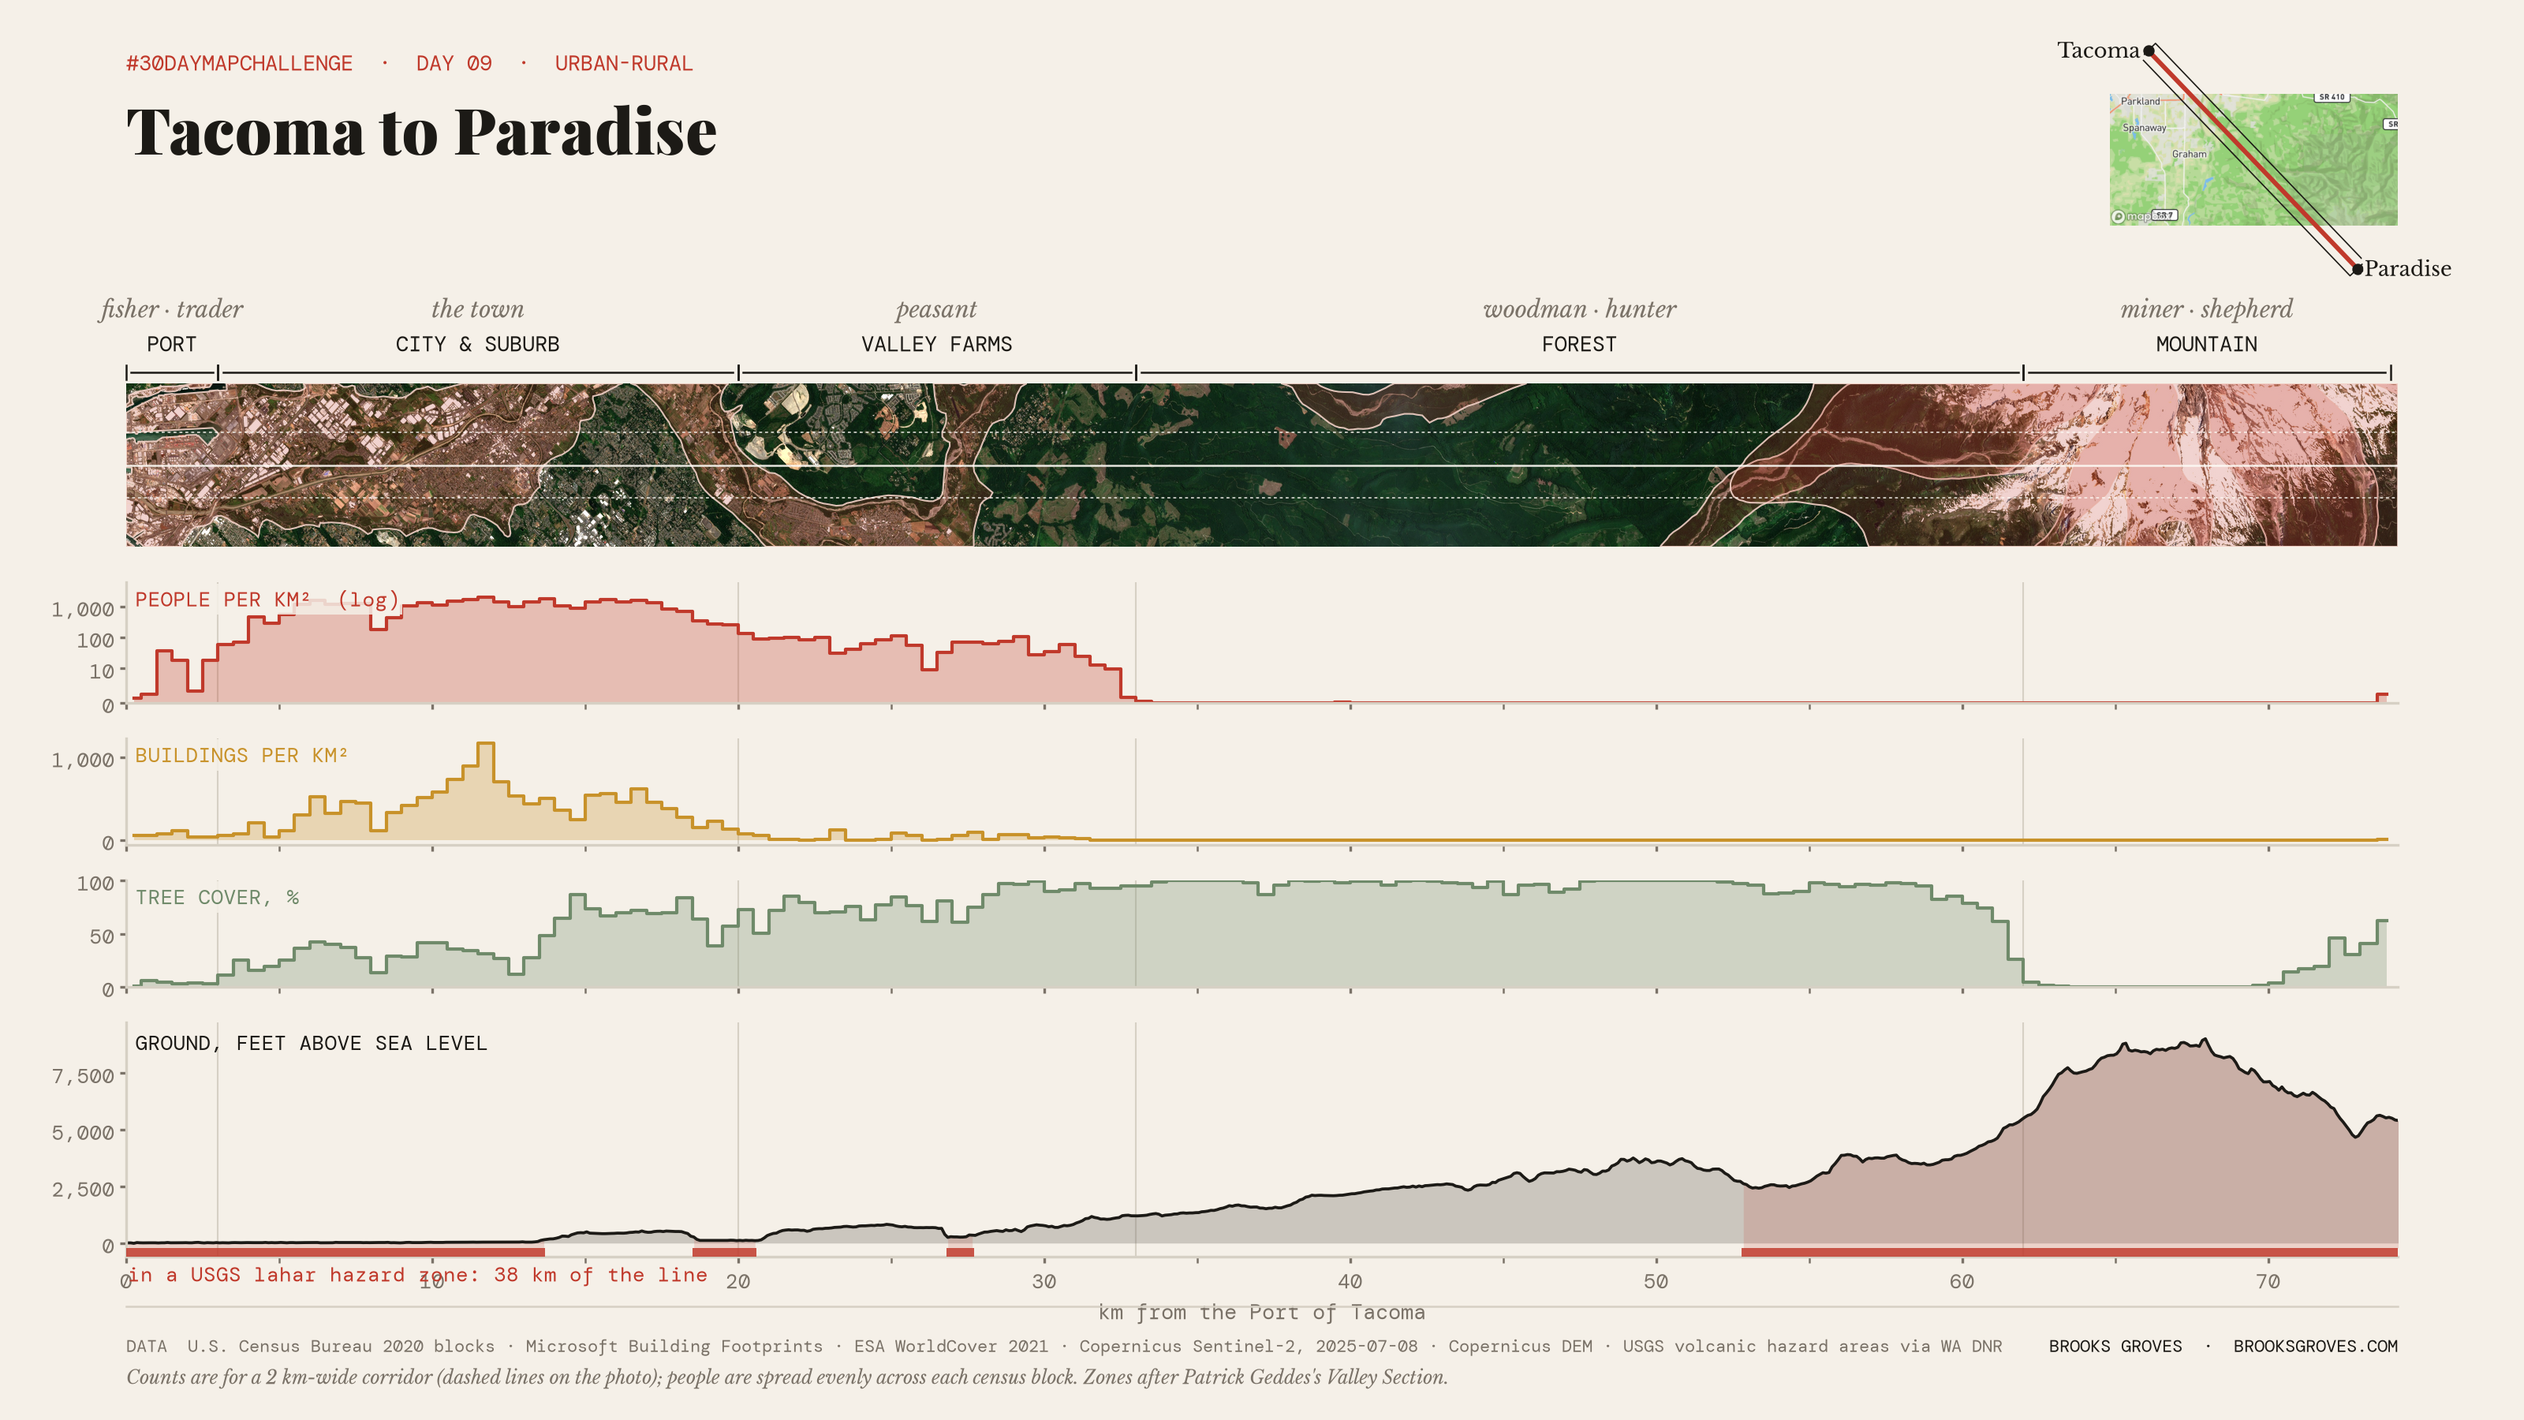
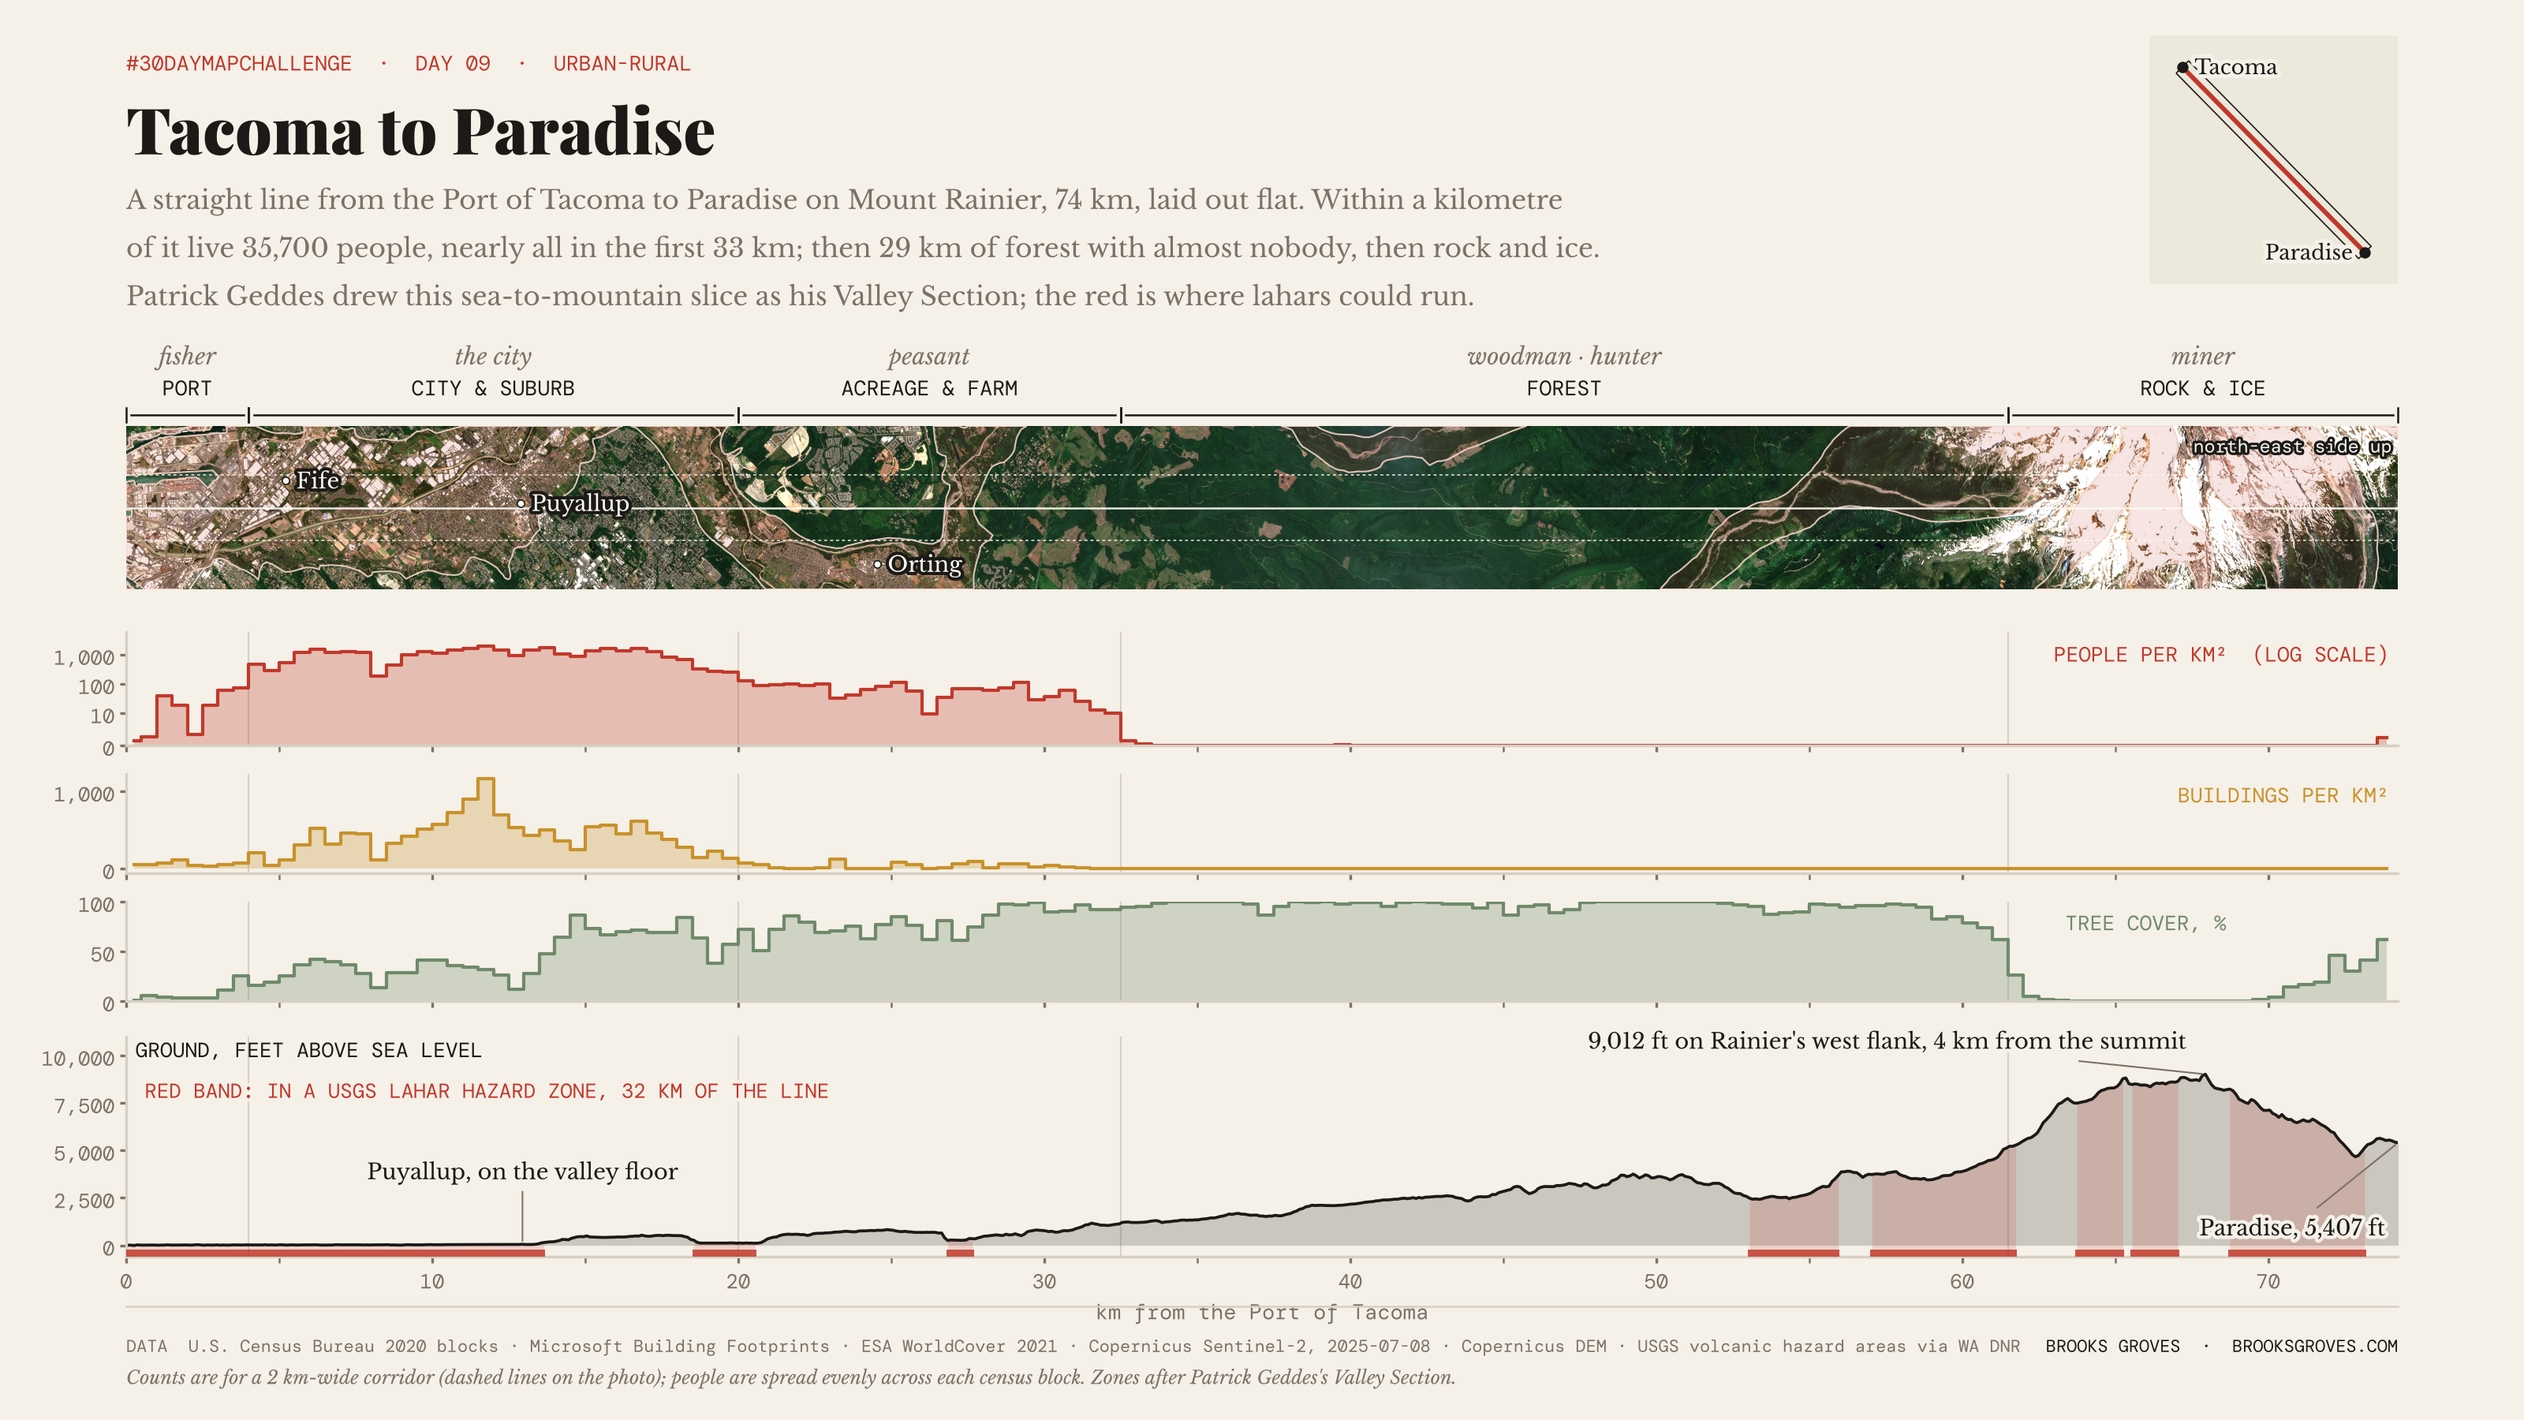
Day 9: Geddes zones from the data, lahar areas on the ribbon, labels and locator
Claude-Session: https://claude.ai/code/session_01PLpsre7ERQswvi63o1YoGH

diff --git a/2026/day-09-urban-rural/make.py b/2026/day-09-urban-rural/make.py
@@ -339,13 +339,13 @@ def draw():
     Lk = meta["line_km"]
     ft = E["elev_m"] * 3.28084
 
-    fig = dmc.figure("wide", map_box=(0.05, 0.615, 0.90, 0.115))[0]
+    fig = dmc.figure("wide", map_box=(0.05, 0.585, 0.90, 0.115))[0]
     rax = fig.axes[0]
     X0, X1 = 0.05, 0.95
 
     # ribbon
     img = np.asarray(Image.open(OUT / "ribbon.jpg")).astype("float32") / 255
-    img = np.clip((img - 0.02) / 0.9, 0, 1) ** 0.95
+    img = np.clip((img - 0.02) / 0.82, 0, 1) ** 0.85
     hk = meta["ribbon_half_m"] / 1000
     rax.imshow(img, extent=(0, Lk, -hk, hk), aspect="auto", interpolation="lanczos", zorder=0)
     rax.set_xlim(0, Lk)
@@ -360,7 +360,7 @@ def draw():
         polys = [g["coordinates"]] if g["type"] == "Polygon" else g["coordinates"]
         for p in polys:
             ring = np.asarray(p[0]) / 1000
-            rax.add_patch(MPoly(ring, closed=True, fc=dmc.LAVA, ec="none", alpha=0.22, zorder=1))
+            rax.add_patch(MPoly(ring, closed=True, fc=dmc.LAVA, ec="none", alpha=0.13, zorder=1))
             rax.add_patch(MPoly(ring, closed=True, fc="none", ec="#f3d2c8", lw=0.5, alpha=0.9, zorder=1))
     for y in (-HALF / 1000, HALF / 1000):
         rax.axhline(y, color=dmc.WHITE, lw=0.45, ls=(0, (2, 2)), alpha=0.75, zorder=2)
@@ -369,15 +369,15 @@ def draw():
     # Geddes zones above the ribbon
     for (k0, k1, name, trade) in ZONES:
         fig_x = lambda k: X0 + (X1 - X0) * k / Lk   # noqa: E731
-        fig.add_artist(plt.Line2D([fig_x(k0) + 0.002, fig_x(k1) - 0.002], [0.738] * 2, color=dmc.INK, lw=0.6,
+        fig.add_artist(plt.Line2D([fig_x(k0) + 0.002, fig_x(k1) - 0.002], [0.708] * 2, color=dmc.INK, lw=0.6,
                                   transform=fig.transFigure))
         for k in (k0, k1):
-            fig.add_artist(plt.Line2D([fig_x(k)] * 2, [0.733, 0.743], color=dmc.INK, lw=0.6, transform=fig.transFigure))
+            fig.add_artist(plt.Line2D([fig_x(k)] * 2, [0.703, 0.713], color=dmc.INK, lw=0.6, transform=fig.transFigure))
         cx = fig_x((k0 + k1) / 2)
-        fig.text(cx, 0.748, name.upper(), family=dmc.MONO, size=6.4, color=dmc.INK, ha="center", va="bottom")
-        fig.text(cx, 0.772, trade, family=dmc.TEXT, style="italic", size=7, color=dmc.STONE, ha="center", va="bottom")
+        fig.text(cx, 0.717, name.upper(), family=dmc.MONO, size=6.4, color=dmc.INK, ha="center", va="bottom")
+        fig.text(cx, 0.739, trade, family=dmc.TEXT, style="italic", size=7, color=dmc.STONE, ha="center", va="bottom")
 
-    def panel(y0, h, label, colour, y, log=False, fmt=lambda v, _: f"{v:,.0f}", ylim=None):
+    def panel(y0, h, label, colour, y, log=False, fmt=lambda v, _: f"{v:,.0f}", ylim=None, lx=0.996, ha="right"):
         a = fig.add_axes((X0, y0, X1 - X0, h))
         a.set_facecolor("none")
         a.fill_between(km, y, color=colour, alpha=0.28, lw=0, step="mid")
@@ -389,8 +389,7 @@ def draw():
             a.set_ylim(*ylim)
         style(a, fmt)
         a.tick_params(labelbottom=False)
-        a.text(0.004, 0.97, label, transform=a.transAxes, family=dmc.MONO, size=6.3, color=colour, va="top",
-               bbox=dict(fc=dmc.PARCHMENT, ec="none", pad=0.6, alpha=0.85))
+        a.text(lx, 0.92, label, transform=a.transAxes, family=dmc.MONO, size=6.3, color=colour, va="top", ha=ha)
         return a
 
     def style(a, fmt):
@@ -407,18 +406,18 @@ def draw():
         for k0, k1, *_ in ZONES[1:]:
             a.axvline(k0, color=dmc.MIST, lw=0.5, zorder=0)
 
-    panel(0.505, 0.085, "PEOPLE PER KM²  (log)", dmc.LAVA, P["people_per_km2"], log=True, ylim=(0, 6000))
-    panel(0.405, 0.075, "BUILDINGS PER KM²", dmc.GOLD, P["buildings_per_km2"])
-    panel(0.305, 0.075, "TREE COVER, %", dmc.SAGE, P["tree_pct"], ylim=(0, 100))
+    panel(0.475, 0.08, "PEOPLE PER KM²  (LOG SCALE)", dmc.LAVA, P["people_per_km2"], log=True, ylim=(0, 6000))
+    panel(0.385, 0.07, "BUILDINGS PER KM²", dmc.GOLD, P["buildings_per_km2"])
+    panel(0.295, 0.07, "TREE COVER, %", dmc.SAGE, P["tree_pct"], ylim=(0, 100), lx=66 / Lk, ha="center")
 
-    ea = fig.add_axes((X0, 0.115, X1 - X0, 0.165))
+    ea = fig.add_axes((X0, 0.115, X1 - X0, 0.155))
     ea.set_facecolor("none")
     ea.fill_between(ekm, ft, color=dmc.ASH, alpha=0.30, lw=0)
     ea.plot(ekm, ft, color=dmc.INK, lw=0.9)
     ea.set_xlim(0, Lk)
-    ea.set_ylim(-600, max(ft) * 1.08)
+    ea.set_ylim(-600, max(ft) * 1.22)
     style(ea, lambda v, _: f"{v:,.0f}")
-    ea.text(0.004, 0.97, "GROUND, FEET ABOVE SEA LEVEL", transform=ea.transAxes, family=dmc.MONO, size=6.3,
+    ea.text(0.004, 1.0, "GROUND, FEET ABOVE SEA LEVEL", transform=ea.transAxes, family=dmc.MONO, size=6.3,
             color=dmc.INK, va="top")
     ea.set_xlabel("km from the Port of Tacoma", family=dmc.MONO, fontsize=6.5, color=dmc.STONE, labelpad=1)
     # lahar band: under the profile, where the line is inside a hazard zone
@@ -433,18 +432,27 @@ def draw():
             ea.add_patch(Rectangle((k0, -600), k1 - k0, 380, fc=dmc.LAVA, ec="none", alpha=0.85, zorder=3))
             ea.fill_between(ekm[s0:s1], ft[s0:s1], -220, color=dmc.LAVA, alpha=0.16, lw=0, zorder=1)
         lk = inside.sum() * ESTEP / 1000
-        ea.text(ekm[runs[0]] if len(runs) else 0, -800, f"in a USGS lahar hazard zone: {lk:.0f} km of the line",
-                family=dmc.MONO, size=6.2, color=dmc.LAVA, va="top")
+        dmc.label(ea, 0.6, max(ft) * 0.98, f"RED BAND: IN A USGS LAHAR HAZARD ZONE, {lk:.0f} KM OF THE LINE", family=dmc.MONO,
+                  size=6.2, color=dmc.LAVA, va="top", ha="left")
+        print(f"= lahar zone: {lk:.1f} km of the line in {len(runs) // 2} stretches")
 
-    for name, k, where in LABELS:
-        if where == "ribbon":
-            dmc.label(rax, k, hk * 0.62, name, size=6.6, ha="center", va="center", halo="#1c1a16", color=dmc.WHITE,
-                      zorder=5)
-        else:
-            i = np.argmin(np.abs(ekm - k))
-            ea.annotate(name, (k, ft[i]), xytext=(0, 9), textcoords="offset points", ha="center", va="bottom",
-                        family=dmc.TEXT, size=6.6, color=dmc.INK,
-                        arrowprops=dict(arrowstyle="-", color=dmc.STONE, lw=0.5))
+    import matplotlib.patheffects as pe
+    for name, (lon, lat) in RIBBON_PLACES:
+        sk, tk = (v / 1000 for v in st(*to.transform(lon, lat)))
+        rax.scatter([sk], [tk], s=5, color=dmc.WHITE, edgecolor=dmc.INK, lw=0.4, zorder=5)
+        rax.text(sk + 0.35, tk, name, size=6.6, family=dmc.TEXT, color=dmc.WHITE, va="center", ha="left", zorder=5,
+                 path_effects=[pe.withStroke(linewidth=2, foreground="#1c1a16")])
+    rax.text(Lk - 0.2, hk - 0.25, "north-east side up", size=5.6, family=dmc.MONO, color=dmc.WHITE, ha="right", va="top",
+             zorder=5, path_effects=[pe.withStroke(linewidth=1.6, foreground="#1c1a16")])
+    top = int(np.argmax(ft))
+    for k, text, dx, dy, ha in [(ekm[top], f"{ft[top]:,.0f} ft on Rainier's west flank, {SUMMIT_OFF:.0f} km from the summit", -6, 6, "right"),
+                                (ekm[-1], f"Paradise, {ft[-1]:,.0f} ft", -4, -30, "right"),
+                                (12.9, "Puyallup, on the valley floor", 0, 18, "center")]:
+        i = int(np.argmin(np.abs(ekm - k)))
+        ea.annotate(text, (ekm[i], ft[i]), xytext=(dx, dy), textcoords="offset points", ha=ha, va="bottom",
+                    family=dmc.TEXT, size=6.6, color=dmc.INK, zorder=6,
+                    path_effects=[pe.withStroke(linewidth=2.2, foreground=dmc.PARCHMENT)],
+                    arrowprops=dict(arrowstyle="-", color=dmc.STONE, lw=0.5, shrinkA=0, shrinkB=1))
 
     s = SUMMARY
     dmc.frame(
@@ -457,6 +465,12 @@ def draw():
     )
     locator(fig)
     dmc.save(fig, DAY, alt=s["alt"])
+    # the gallery crop: ribbon and profiles, not just the thin ribbon
+    im = Image.open(OUT / "map.png")
+    W, H = im.size
+    c = im.crop((int(0.03 * W), int(0.10 * H), int(0.97 * W), int(0.90 * H))).convert("RGB")
+    c.thumbnail((1200, 1200))
+    c.save(OUT / "crop.jpg", quality=86, optimize=True)
 
 
 def locator(fig):
@@ -464,10 +478,11 @@ def locator(fig):
     import geopandas as gpd
     from shapely.geometry import LineString, box
     import basemap
-    a = fig.add_axes((0.735, 0.80, 0.215, 0.175))
+    a = fig.add_axes((0.95 - 0.175 * 6 / 10.667, 0.80, 0.175 * 6 / 10.667, 0.175))
     a.set_axis_off()
     pad = 9000
-    view = box(min(ax_, bx_) - pad, min(ay_, by_) - pad * 0.4, max(ax_, bx_) + pad, max(ay_, by_) + pad * 0.4)
+    cx, cy, r = (ax_ + bx_) / 2, (ay_ + by_) / 2, max(abs(bx_ - ax_), abs(by_ - ay_)) / 2 + pad
+    view = box(cx - r, cy - r, cx + r, cy + r)
     drawn = False
     MCRS = CRS
     if basemap.available():
@@ -475,7 +490,6 @@ def locator(fig):
     vx0, vy0, vx1, vy1 = gpd.GeoSeries([view], crs=CRS).to_crs(MCRS).total_bounds
     a.set_xlim(vx0, vx1)
     a.set_ylim(vy0, vy1)
-    a.set_aspect("equal", adjustable="datalim", anchor="NE")
     if MCRS != CRS:
         drawn = basemap.mapbox(a, style="mapbox/outdoors-v12")
     if not drawn:
@@ -485,25 +499,44 @@ def locator(fig):
     gpd.GeoSeries([LineString([xy(0, 0), xy(L, 0)]).buffer(RIB, cap_style=2)], crs=CRS).to_crs(MCRS).boundary.plot(
         ax=a, color=dmc.INK, lw=0.4, zorder=3)
     tm = Transformer.from_crs(CRS, MCRS, always_xy=True)
-    for name, (lon, lat), ha, dx in [("Tacoma", A, "right", -1), ("Paradise", B, "left", 1)]:
+    for name, (lon, lat), ha, dx in [("Tacoma", A, "left", 1), ("Paradise", B, "right", -1)]:
         x, y = tm.transform(*to.transform(lon, lat))
         a.scatter([x], [y], s=6, color=dmc.INK, zorder=4)
-        dmc.label(a, x + dx * 2500, y, name, size=6.2, ha=ha, va="center", zorder=5, clip_on=False)
+        dmc.label(a, x + dx * 3500, y, name, size=6.2, ha=ha, va="center", zorder=5, clip_on=False)
     a.set_xlim(vx0, vx1)
     a.set_ylim(vy0, vy1)
 
 
-# Set after the first gather from profiles.csv/elevation.csv (km along the line) and checked by eye.
+# Set from the first gather (out/profiles.csv, km along the line):
+#   port      built-up > 60% and under 100 people/km² until km 4
+#   city      over 250 people/km² until km 20
+#   acreage   10-120 people/km² under 60-90% trees until km 32.5, then under 1 person/km²
+#   forest    over 80% trees, nobody, until km 61.5
+#   mountain  rock and ice (WorldCover snow/bare > 50%) from km 61.5
 ZONES = [  # (km from, km to, zone, Geddes's trade for it)
-    (0, 3, "Port", "fisher · trader"),
-    (3, 20, "City & suburb", "the town"),
-    (20, 33, "Valley farms", "peasant"),
-    (33, 62, "Forest", "woodman · hunter"),
-    (62, 74, "Mountain", "miner · shepherd"),
+    (0, 4, "Port", "fisher"),
+    (4, 20, "City & suburb", "the city"),
+    (20, 32.5, "Acreage & farm", "peasant"),
+    (32.5, 61.5, "Forest", "woodman · hunter"),
+    (61.5, 74.24, "Rock & ice", "miner"),
 ]
-LABELS = []          # (name, km, "ribbon" | "profile")
-LAHAR_SHOW = []      # which lahar layers to draw; empty = all
-SUMMARY = {"subtitle": "", "alt": ""}
+RIBBON_PLACES = [("Fife", (-122.357, 47.239)), ("Puyallup", (-122.293, 47.185)), ("Orting", (-122.204, 47.098))]
+SUMMIT = (-121.7603, 46.8529)          # Columbia Crest
+SUMMIT_OFF = abs(st(*to.transform(*SUMMIT))[1]) / 1000
+LAHAR_SHOW = ["lahars"]               # the lahar areas, not the near-volcano zone
+SUMMARY = {
+    "subtitle": ("A straight line from the Port of Tacoma to Paradise on Mount Rainier, 74 km, laid out flat. Within a kilometre\n"
+                 "of it live 35,700 people, nearly all in the first 33 km; then 29 km of forest with almost nobody, then rock and ice.\n"
+                 "Patrick Geddes drew this sea-to-mountain slice as his Valley Section; the red is where lahars could run."),
+    "alt": ("A long horizontal satellite-photo ribbon of the 74 km straight line from the Port of Tacoma to Paradise on Mount "
+            "Rainier, with Rainier's lahar hazard zones outlined in red on the valley floors, labelled above with zones after "
+            "Patrick Geddes's Valley Section: port, city and suburb, acreage and farm, forest, rock and ice. Below it, stacked "
+            "profiles on the same kilometre scale: people per square kilometre, high through Fife and Puyallup and falling to "
+            "almost none after km 33; buildings per square kilometre, peaking in Puyallup; tree cover, rising to near 100% "
+            "through the forest and dropping to zero on the mountain; and ground elevation, flat near sea level along the "
+            "Puyallup valley, climbing to about 9,000 ft on Rainier's west flank and ending at Paradise at about 5,400 ft, with "
+            "a red band marking the stretches inside a lahar hazard zone."),
+}
 
 if __name__ == "__main__":
     try:
